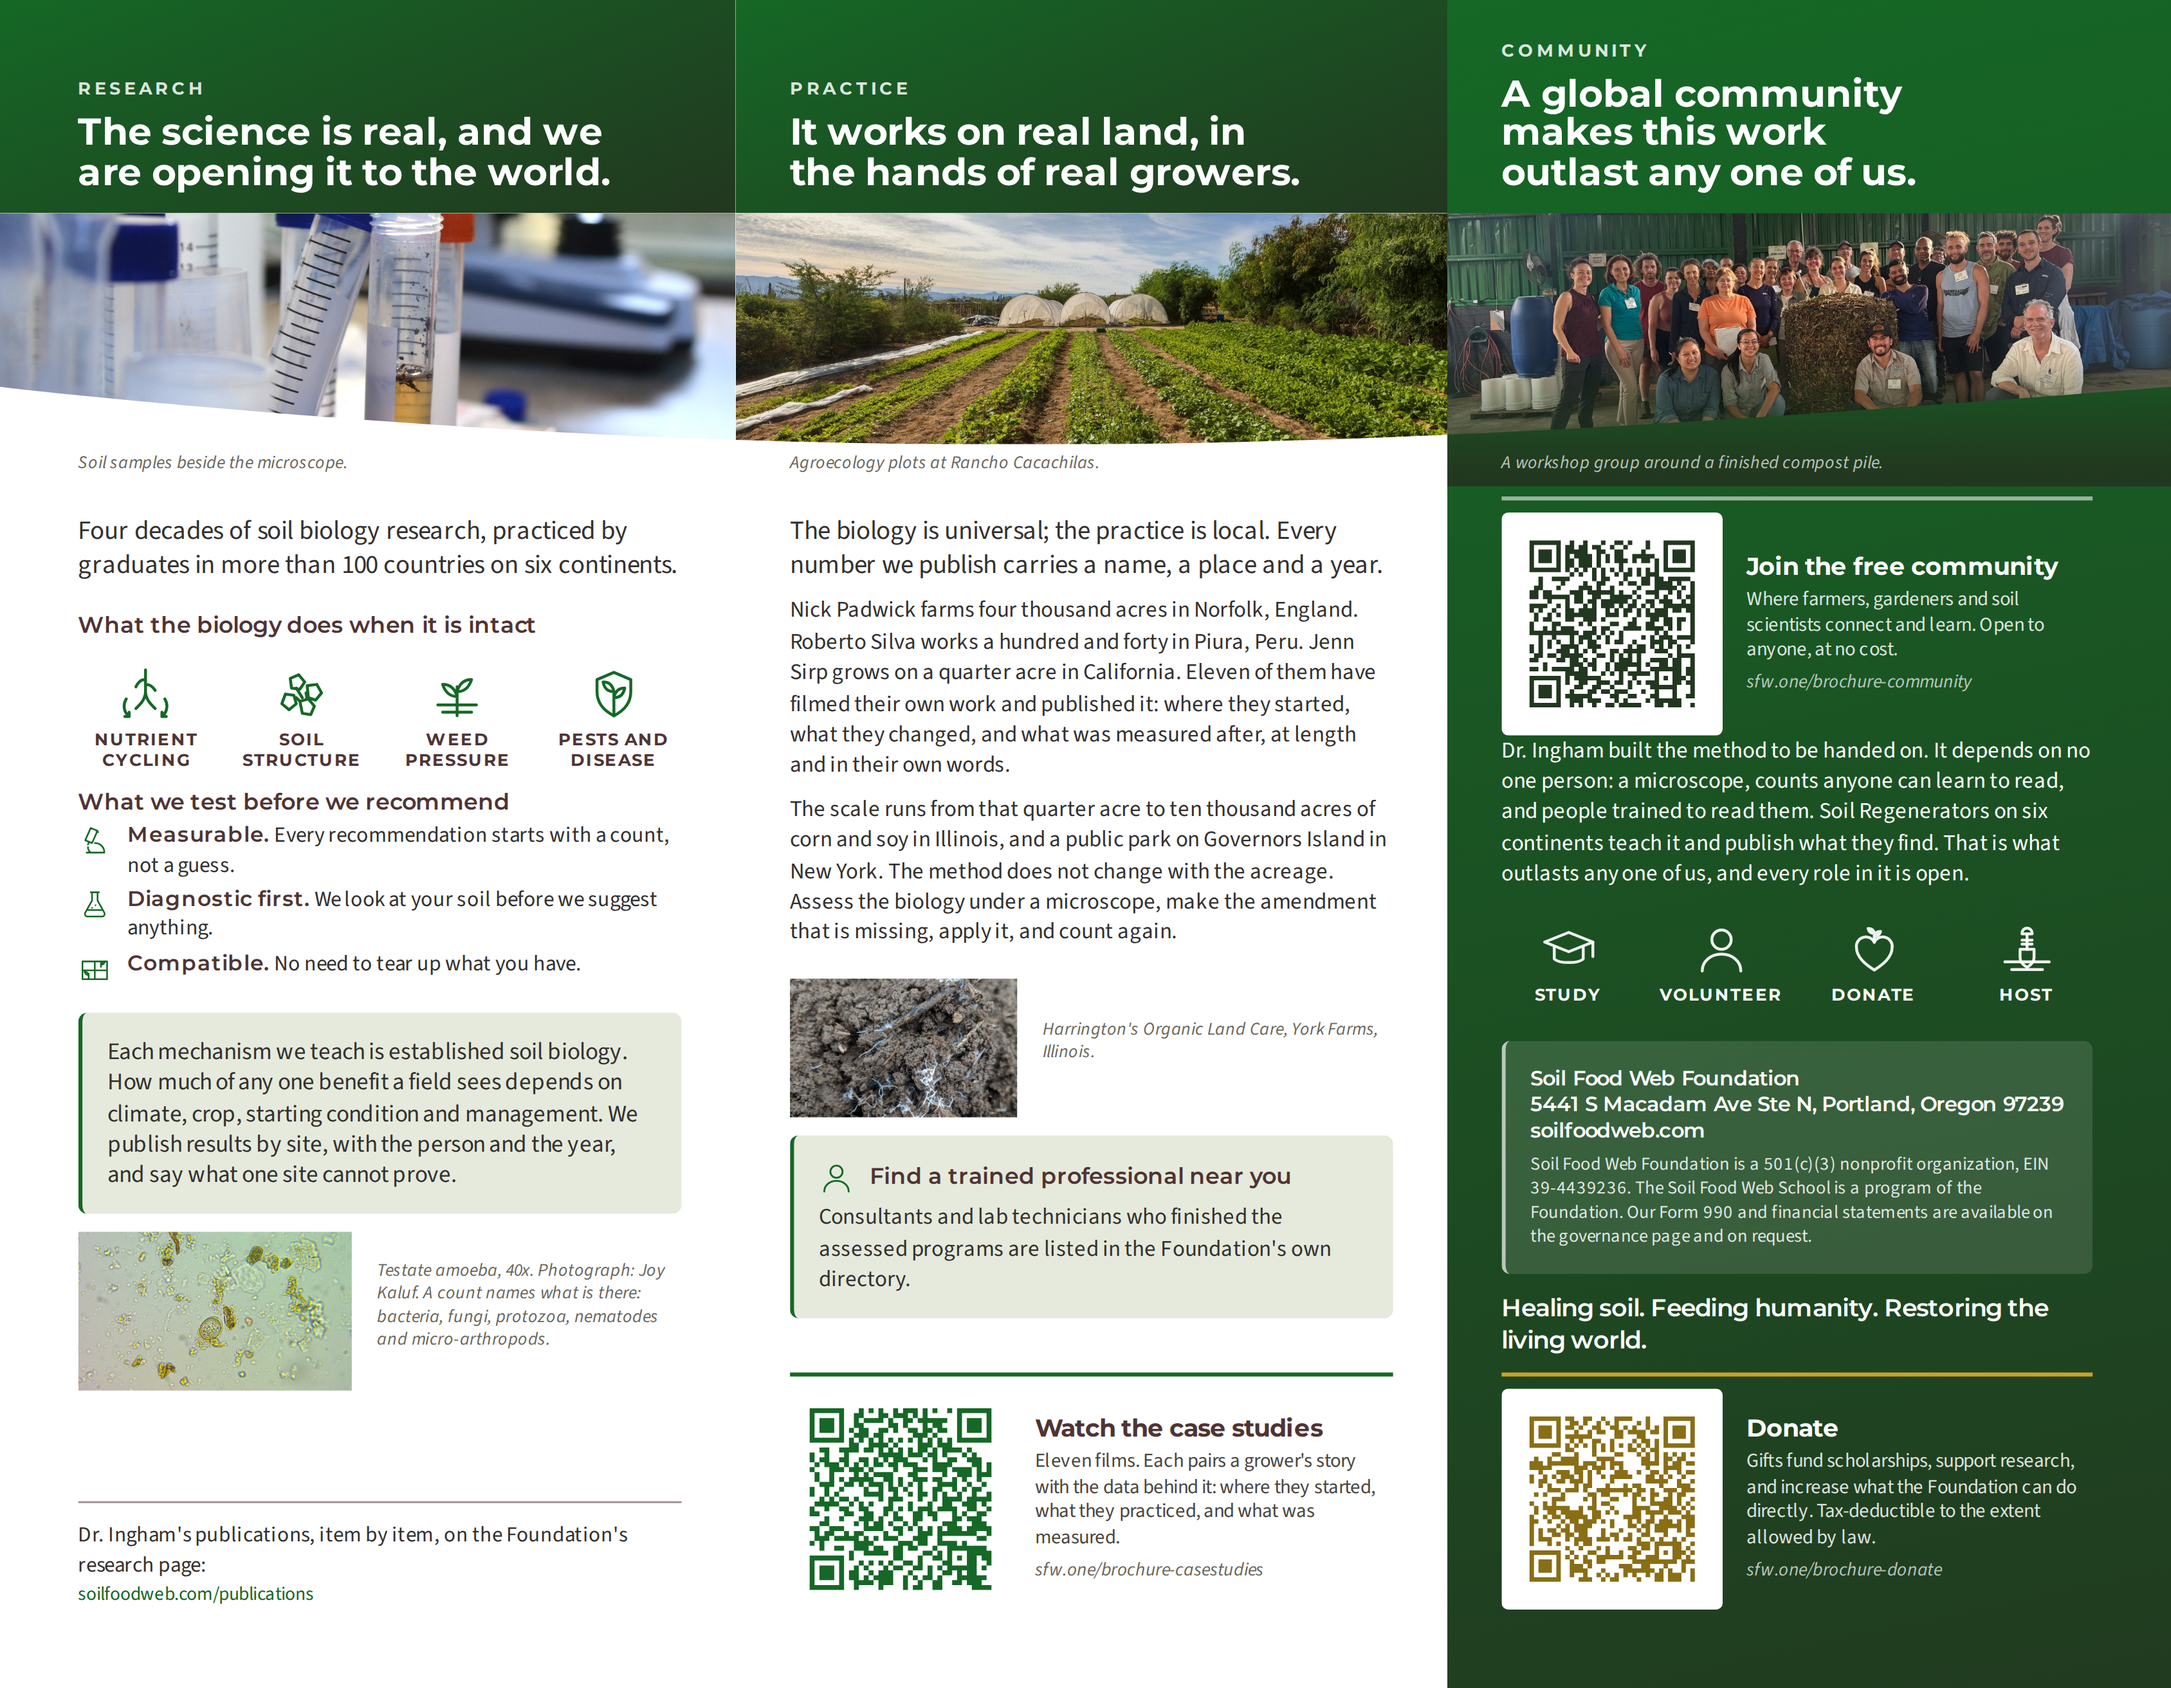
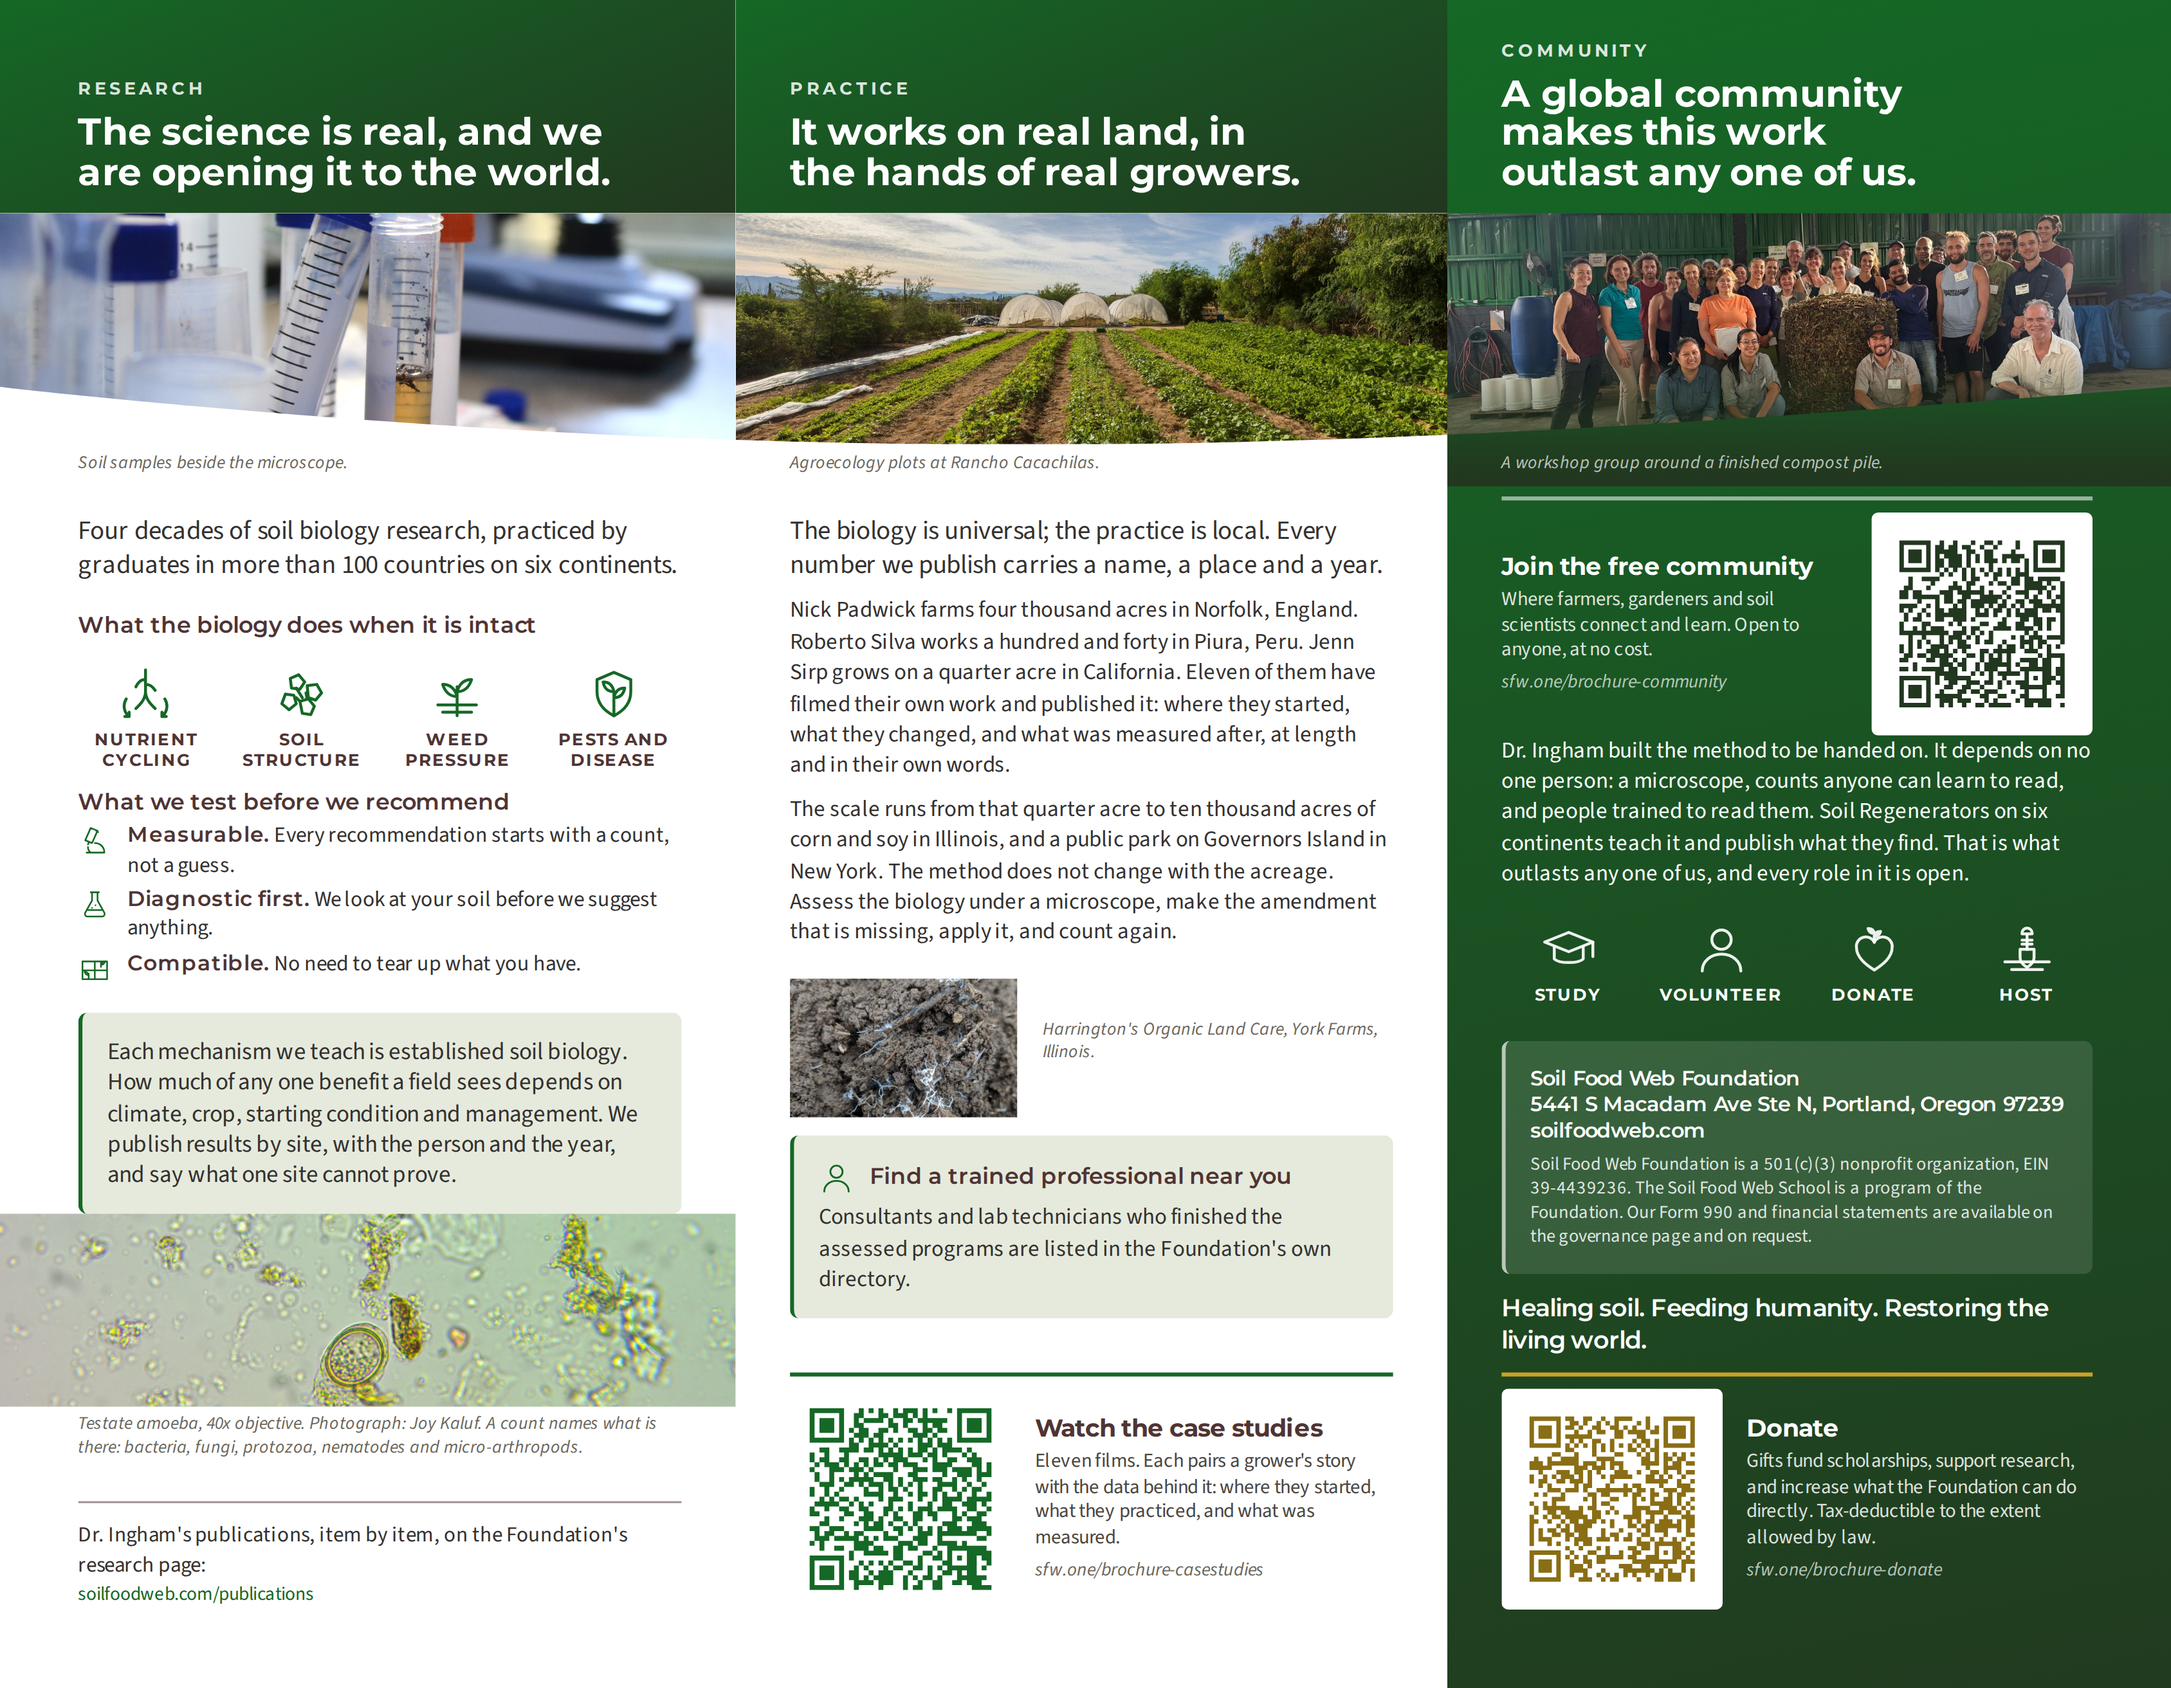
Trifold: community code flipped, research photograph run full width
The community code moves to the right of its block, words to the left, via
a .qr--flip modifier. The other four keep code-left; this is the one that
sits under a photograph rather than at a panel foot.

The research panel was ending in a hole: about six tenths of an inch of
white above the closing rule, because the spacer collected all the slack in
one place. The microscopy photograph now runs to both panel edges with its
caption beneath rather than sitting as a thumbnail with the caption beside
it, which puts the space into the evidence. That panel's whole argument is
that we look at what is in the soil, so the photograph is the right thing
to spend it on.

It cannot use .figure--full: build/apply-curve.py pairs one .figure--full
with one panel to generate the single curve across the sheet, and a second
clipped figure on a panel would break that pairing. The new .figure--band
runs to the same edges and is left square.

Adds exports/qr/README.md and a zip of the five codes, so they can be taken
without cloning.

Claude-Session: https://claude.ai/code/session_01Dzy7foEQfuybsE73DxJgN3

Changed region(s): [[0.0, 0.7185, 0.3422, 0.8747], [0.6844, 0.2811, 0.9644, 0.4373]]

diff --git a/Trifold Design/build/trifold.css b/Trifold Design/build/trifold.css
@@ -448,6 +448,20 @@ h3 {
   height: var(--photo-h);
   object-fit: cover;
 }
+/* A photograph run to both panel edges and left square. Two things need it.
+   The curve is generated per panel by build/apply-curve.py, which pairs one
+   .figure--full with one panel, so a second clipped figure on a panel would
+   break the single line across the sheet; and this is used where the picture
+   is the evidence rather than the atmosphere, which wants a straight edge and
+   its caption underneath rather than beside it. */
+.figure--band { margin-left: calc(var(--pad) * -1); margin-right: calc(var(--pad) * -1); }
+.panel--first .figure--band { margin-left:  calc((var(--pad) + var(--bleed)) * -1); }
+.panel--last  .figure--band { margin-right: calc((var(--pad) + var(--bleed)) * -1); }
+.figure--band img { width: 100%; height: 1.00in; object-fit: cover; }
+.figure--band .caption { margin-left: var(--pad); margin-right: var(--pad); }
+.panel--first .figure--band .caption { margin-left:  calc(var(--pad) + var(--bleed)); }
+.panel--last  .figure--band .caption { margin-right: calc(var(--pad) + var(--bleed)); }
+
 /* The lower edge of each photograph is not its own shape. One curve is drawn
    across the whole sheet and each picture is clipped by the segment of it that
    falls in that panel, so the three edges join into a single line across both
@@ -626,6 +640,9 @@ h3 {
 .qr--edu    { border-top: 2pt solid var(--edu);    padding-top: var(--s2); }
 .qr--green  { border-top: 2pt solid var(--green);  padding-top: var(--s2); }
 .qr--gold   { border-top: 2pt solid var(--gold);   padding-top: var(--s2); }
+/* Code on the right, words on the left. Used on the community panel, where
+   the code sits under the photograph rather than at the foot. */
+.qr--flip { flex-direction: row-reverse; }
 
 /* The legal block, ratified wording, verbatim. */
 .legal { font-size: 6.8pt; line-height: 1.35; color: var(--ink-soft); }

diff --git a/Trifold Design/build/inside.html b/Trifold Design/build/inside.html
@@ -96,10 +96,10 @@
           prove.</p>
       </div>
 
-      <figure class="figure figure--side figure--side--lg">
+      <figure class="figure figure--band">
         <img src="/img/uploads/testate-amoeba-40x.jpg" alt="">
-        <figcaption class="caption">Testate amoeba, 40x. Photograph: Joy
-          Kaluf. A count names what is there: bacteria, fungi, protozoa,
+        <figcaption class="caption">Testate amoeba, 40x objective. Photograph:
+          Joy Kaluf. A count names what is there: bacteria, fungi, protozoa,
           nematodes and micro-arthropods.</figcaption>
       </figure>
       <div class="spacer"></div>
@@ -179,7 +179,7 @@
         <figcaption class="caption">A workshop group around a finished compost pile.</figcaption>
       </figure>
 
-      <div class="qr qr--green">
+      <div class="qr qr--green qr--flip">
         <img src="qr/community.svg" alt="">
         <div>
           <div class="t">Join the free community</div>

diff --git a/exports/qr/README.md b/exports/qr/README.md
@@ -1,0 +1,29 @@
+# Brochure QR codes
+
+Five codes for the SFW 2026 event brochure (the trifold for live events).
+
+Generated by `Trifold Design/build/make-qr.py`. Do not hand-edit them: rerun the
+script, which is the only thing that keeps these PNGs and the codes placed in
+the artwork encoding the same links.
+
+| File | Encodes | Colour | Panel |
+| :-- | :-- | :-- | :-- |
+| `sfw-brochure-qr-webinar.png` | `https://www.sfw.one/brochure-webinar` | `#6B4C7A` Legacy Purple | Our story |
+| `sfw-brochure-qr-scholarship.png` | `https://www.sfw.one/brochure-scholarship` | `#1F4E73` Education Blue, deep | Teaching |
+| `sfw-brochure-qr-casestudies.png` | `https://www.sfw.one/brochure-casestudies` | `#156826` Food Web Green | Practice |
+| `sfw-brochure-qr-community.png` | `https://www.sfw.one/brochure-community` | `#22371F` Moss | Community |
+| `sfw-brochure-qr-donate.png` | `https://www.sfw.one/brochure-donate` | `#8A6E15` Gold, deep | Donate |
+
+Each is a Switchy short link, so a destination can be repointed without a
+reprint. The campaign UTM parameters ride on the redirect.
+
+**Specification.** Error correction H (30% recoverable). Four modules of quiet
+zone. Coloured ink on a white ground. 1215 x 1215 px. Placed in the brochure at
+29.2mm square, which is 0.649mm a module.
+
+**Two brand colours cannot be used as ink at this size and the script refuses
+them.** Education Blue `#3780B8` is 4.25:1 against white and the brand gold
+`#C9A227` is 2.42:1; a decoder could not read the blue one at all. Both use the
+deep end of their own gradient here. Nothing below 4.5:1 will generate.
+
+`sfw-brochure-qr-codes.zip` holds all five.
